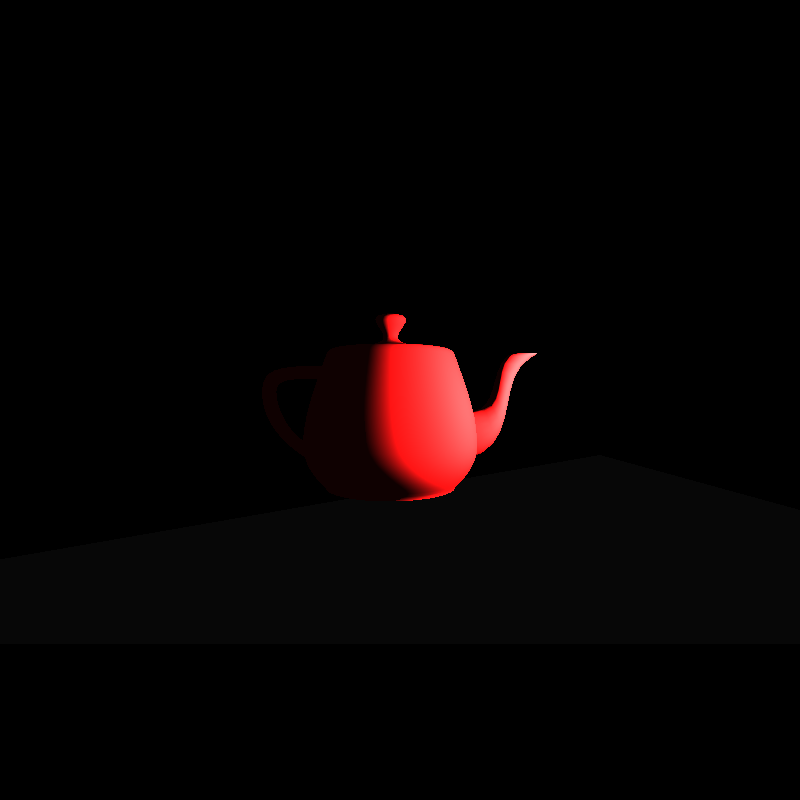
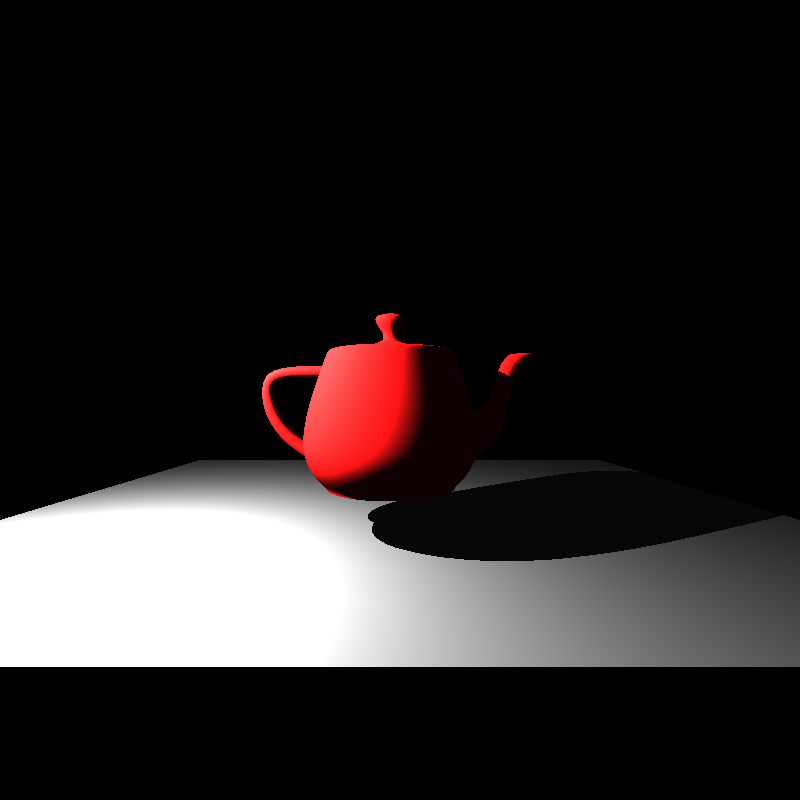
Teapot

Changed region(s): [[0.0, 0.375, 1.0, 0.8438]]

diff --git a/RayTracerv0.7/src/RayTracer.java b/RayTracerv0.7/src/RayTracer.java
@@ -21,13 +21,21 @@ public class RayTracer {
         for (Triangle t : plant) {
             scene.addObject(t);
         }
-        scene.addObject(new Triangle(new Vector3D(-4.0, -1.1, 1.0),new Vector3D(3.0, -1.2, 2.0),new Vector3D(3.0, -1.2, 6.0),
-        new Color(100,100, 100)));
+        scene.addObject(new Triangle(
+        new Vector3D(-4.0, -1.2, 1.8),
+        new Vector3D(4.0, -1.2, 8.0),
+        new Vector3D(4.0, -1.2, 1.8),
+        new Color(85, 85, 85)
+        ));
         
-        scene.addObject(new Triangle(new Vector3D(-3.0, -1.2, 2.0),new Vector3D(3.0, -1.2, 6.0),new Vector3D(-3.0, -1.2, 6.0),
-        new Color(60, 60, 60)));
+        scene.addObject(new Triangle(
+        new Vector3D(-4.0, -1.2, 1.8),
+        new Vector3D(-4.0, -1.2, 8.0),
+        new Vector3D(4.0, -1.2, 8.0),
+        new Color(85, 85, 85)
+        ));
         List <Light> lights =  new ArrayList<>();
-        lights.add(new Light(Light.POINT,new Vector3D(1.8, 0.3, 2.4),Color.WHITE,18));
+        lights.add(new Light(Light.POINT,new Vector3D(-2.5, 1.5, 2.2),Color.WHITE,45));
         //lights.add(new Light(Light.DIRECTIONAL,new Vector3D(0, 0.3, -1.0),Color.WHITE,0.45));
 
         Color backgroundColor = Color.BLACK;
